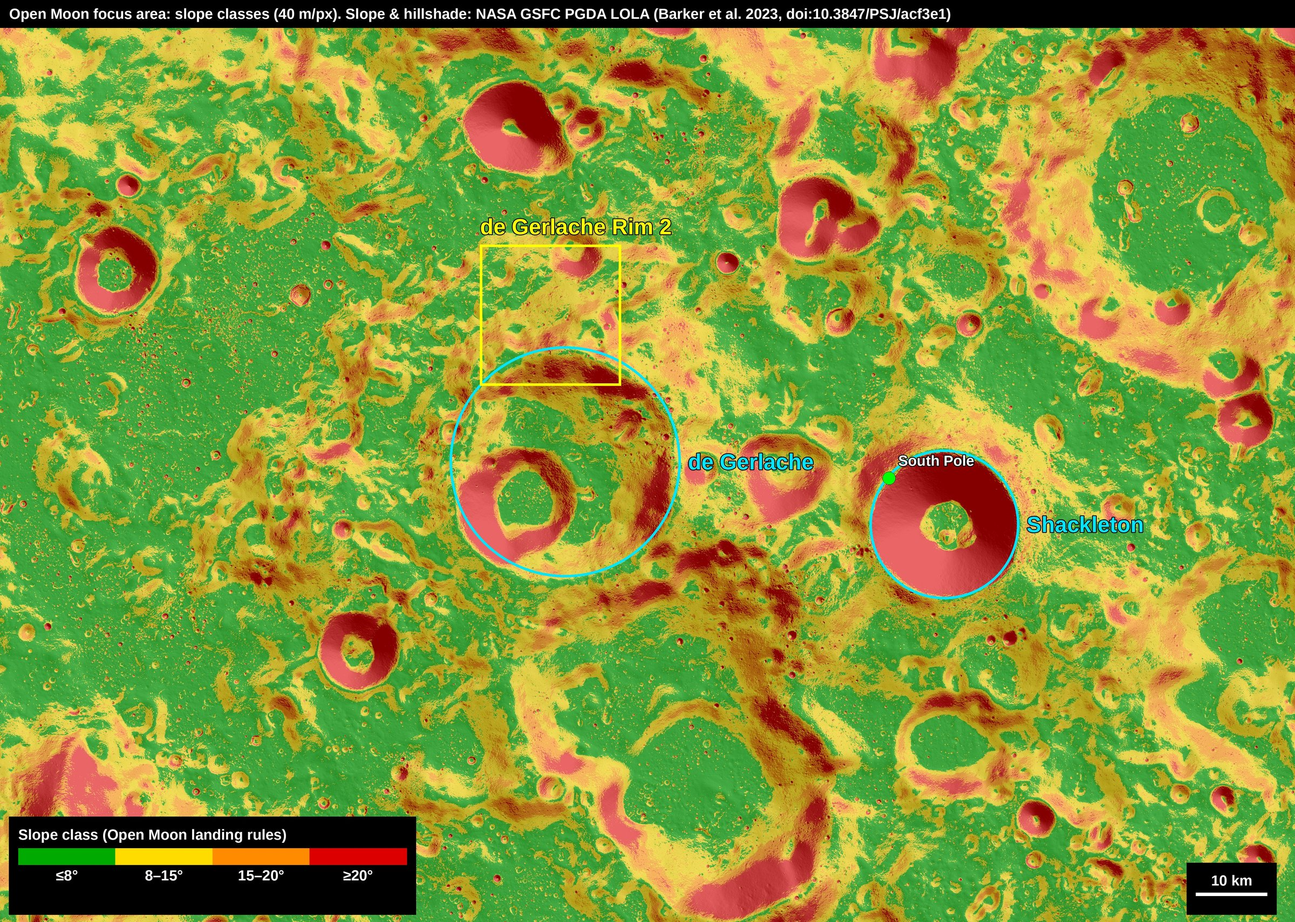
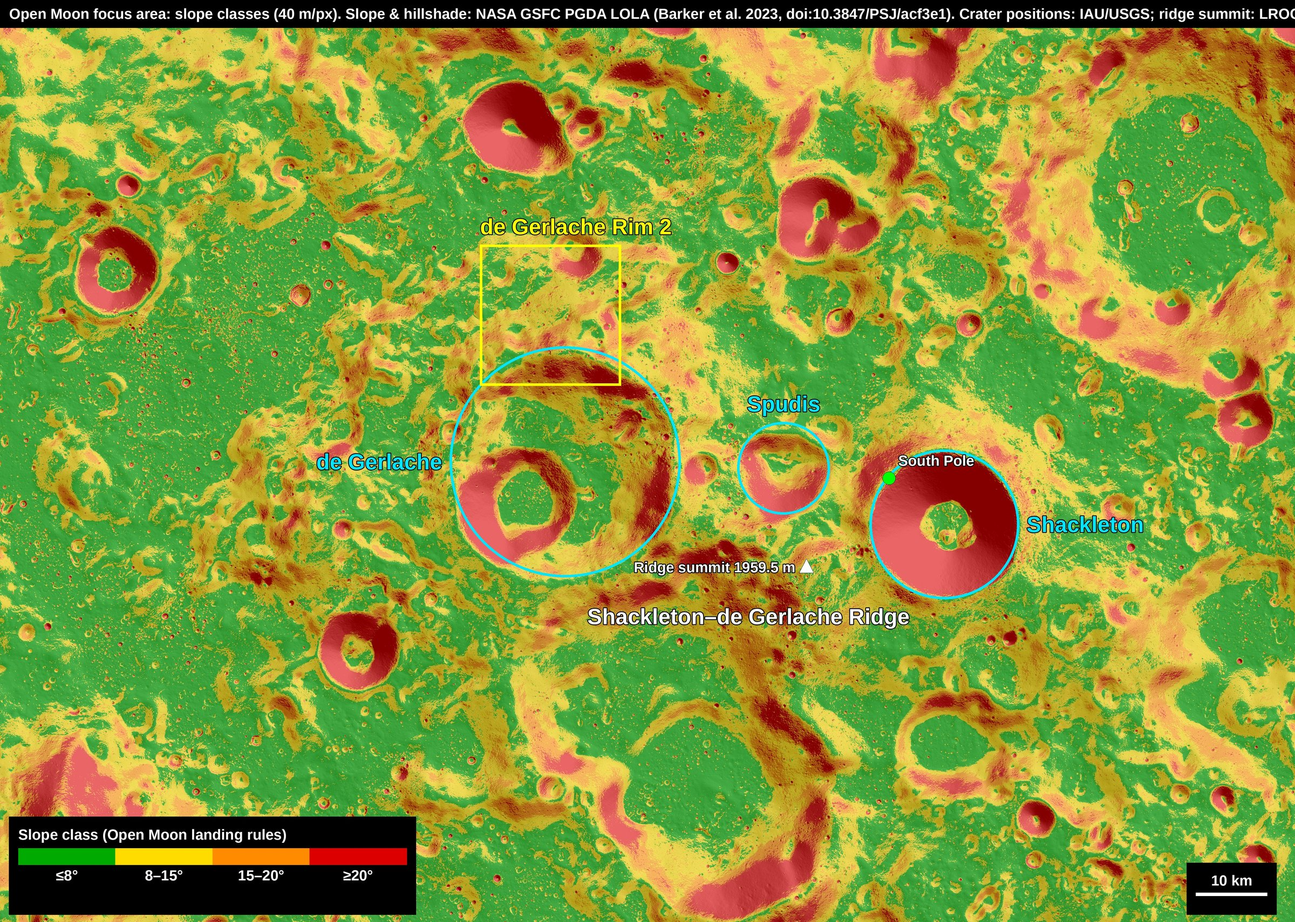
Slope maps: label de Gerlache, Spudis, Shackleton and the Shackleton–de Gerlache Ridge
Fixes the crater previously mislabelled de Gerlache (it is Spudis, USGS
gazetteer 89.51°S 84.61°W, 13 km). Adds LROC ridge summit marker.

Claude-Session: https://claude.ai/code/session_01EMgvSv8Ki6A9jj7v8eiV3S

diff --git a/analysis/slope/render.py b/analysis/slope/render.py
@@ -39,7 +39,15 @@ def make(name,bounds,res,out,alpha=0.6,threshold_mode=False,annot=(),title=''):
         if a[0]=='circle':
             _,lat,lon,diam,lab,side=a; x,y=m2p(*lonlat2m(lat,lon)); r=diam*500/res
             d.ellipse((x-r,y-r,x+r,y+r),outline=(0,230,255),width=max(2,int(3*k)))
-            d.text((x+(r+8*k if side=='r' else -r-8*k),y),lab,font=F,fill=(0,230,255),anchor='lm' if side=='r' else 'rm',stroke_width=3,stroke_fill=(0,0,0))
+            if side=='t': d.text((x,y-r-6*k),lab,font=F,fill=(0,230,255),anchor='md',stroke_width=3,stroke_fill=(0,0,0))
+            else: d.text((x+(r+8*k if side=='r' else -r-8*k),y),lab,font=F,fill=(0,230,255),anchor='lm' if side=='r' else 'rm',stroke_width=3,stroke_fill=(0,0,0))
+        if a[0]=='text':
+            _,lat,lon,lab,col,dy=a; x,y=m2p(*lonlat2m(lat,lon))
+            d.text((x,y+dy*k),lab,font=F,fill=col,anchor='mm',stroke_width=3,stroke_fill=(0,0,0))
+        if a[0]=='tri':
+            _,lat,lon,lab=a; x,y=m2p(*lonlat2m(lat,lon)); r=9*k
+            d.polygon([(x,y-r),(x-r*0.9,y+r*0.7),(x+r*0.9,y+r*0.7)],fill=(255,255,255),outline=(0,0,0))
+            d.text((x-12*k,y),lab,font=Fs,fill=(255,255,255),anchor='rm',stroke_width=3,stroke_fill=(0,0,0))
         if a[0]=='box':
             _,bx,lab=a; p0=m2p(bx[0],bx[3]); p1=m2p(bx[2],bx[1])
             d.rectangle((*p0,*p1),outline=(255,255,0),width=max(2,int(3*k)))
